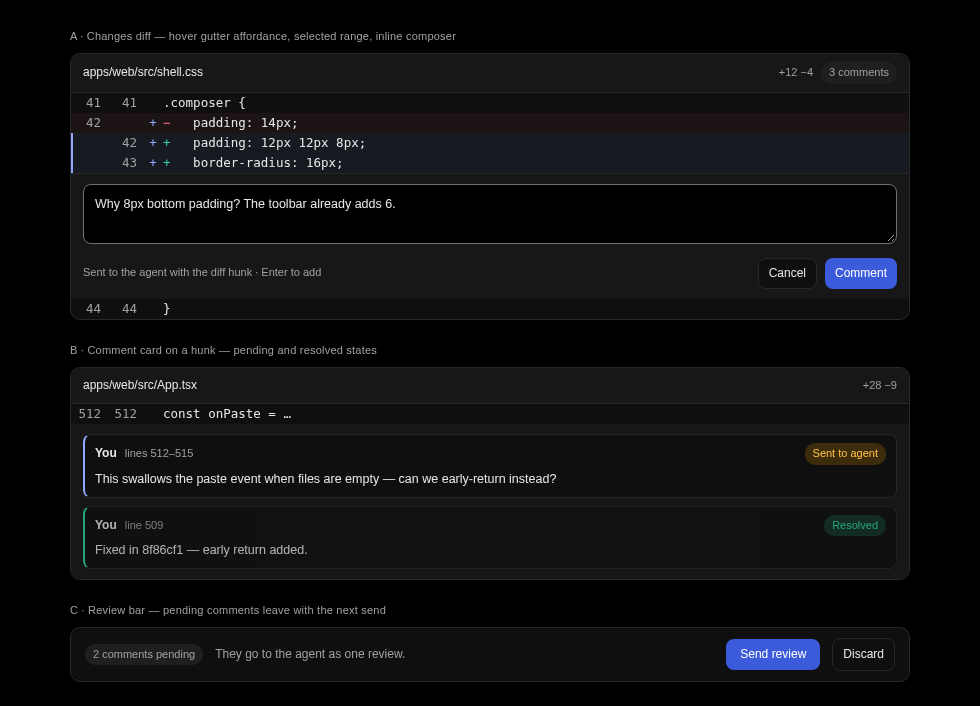
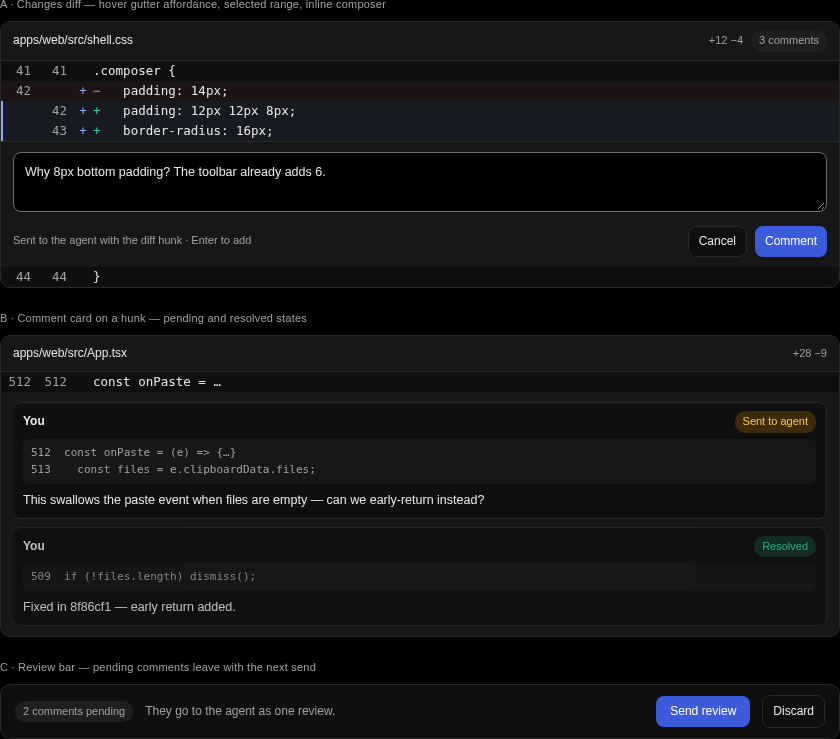
docs: redesign diff comment card — quote block replaces side rail

diff --git a/docs/agent-plans/diff-review-comments-design.md b/docs/agent-plans/diff-review-comments-design.md
@@ -20,11 +20,12 @@ Mockup: `docs/agent-plans/assets/design/diff-review-comments.png`
 
 ## Comment cards
 
-- Rendered in `.comment-box` strips attached to their hunk, `border-left:2px solid var(--accent)`, `var(--surface)` body, 8px radius, 12.5px.
-- Header: author `You` (12px/600), `line 509`/`lines 512–515` (11px `var(--muted)`), status pill right:
+- Rendered in `.comment-box` strips attached to their hunk: `var(--surface)` body, 8px radius, 12.5px, `border:1px solid var(--border)` — no colored side rail; the anchor to code is a quote block instead of a rail.
+- Header: author `You` (12px/600), status pill right:
+- Quote block under the header: the commented lines, `11px var(--mono)`, `background:var(--subtle)`, 6px radius, `padding:5px 8px`, `var(--muted)` text, leading line-number column (`512`, `513`) so every comment visibly quotes its hunk; range comments quote up to 3 lines then `…`.
   - `Draft` — neutral pill, only for unsaved text restored from journal;
   - `Sent to agent` — `var(--warning-fg)`/`var(--warning-bg)`;
-  - `Resolved` — `var(--success-fg)`/`var(--success-bg)` (card at `opacity:.75`, border-left `var(--success)`);
+  - `Resolved` — `var(--success-fg)`/`var(--success-bg)` (card at `opacity:.8`);
   - `Outdated` — neutral pill, when the hunk moved.
 - Resolved cards keep visible text (no collapse); an `Outdated comments` disclosure at the file header (`3 comments` pill in `.fhead`, `var(--selection-bg)` neutral) filters the list when clicked.
 
